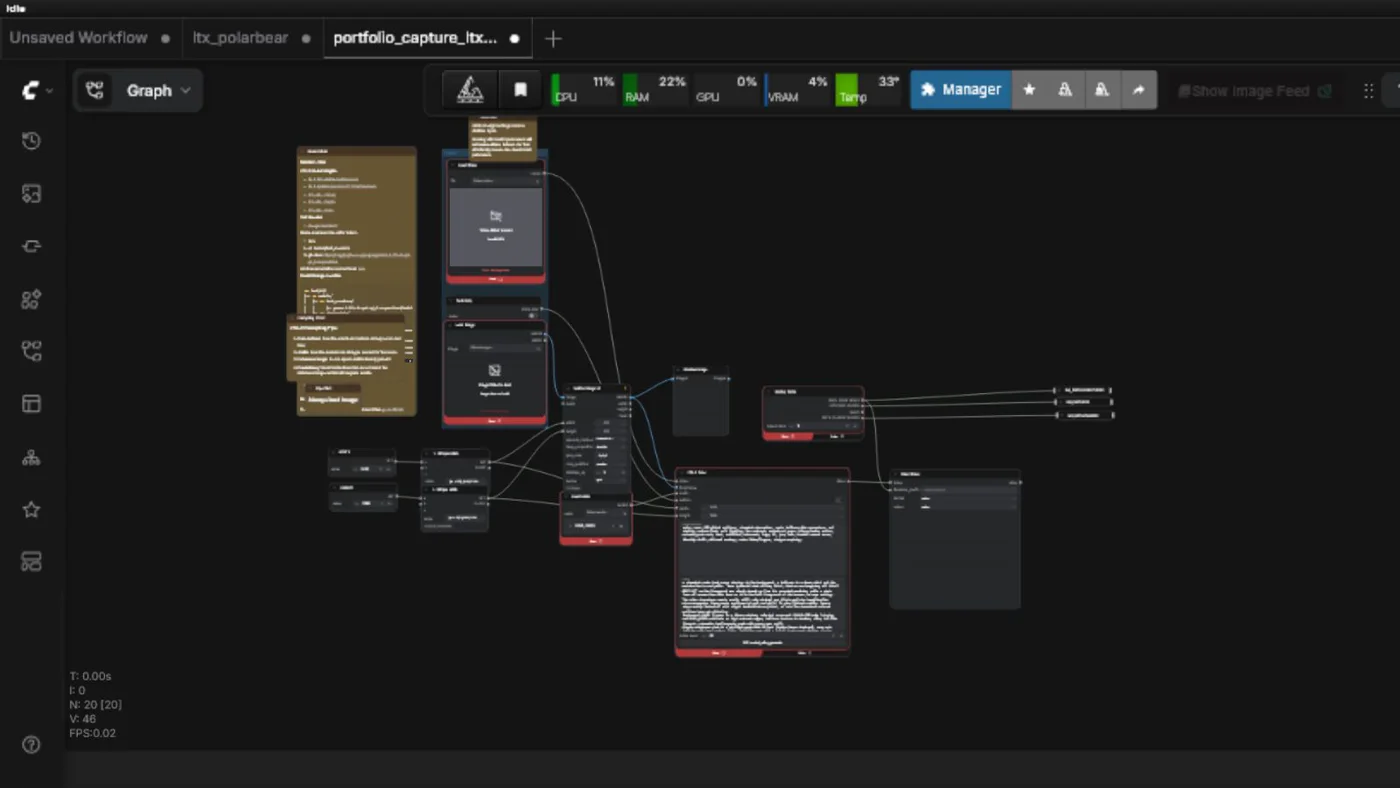
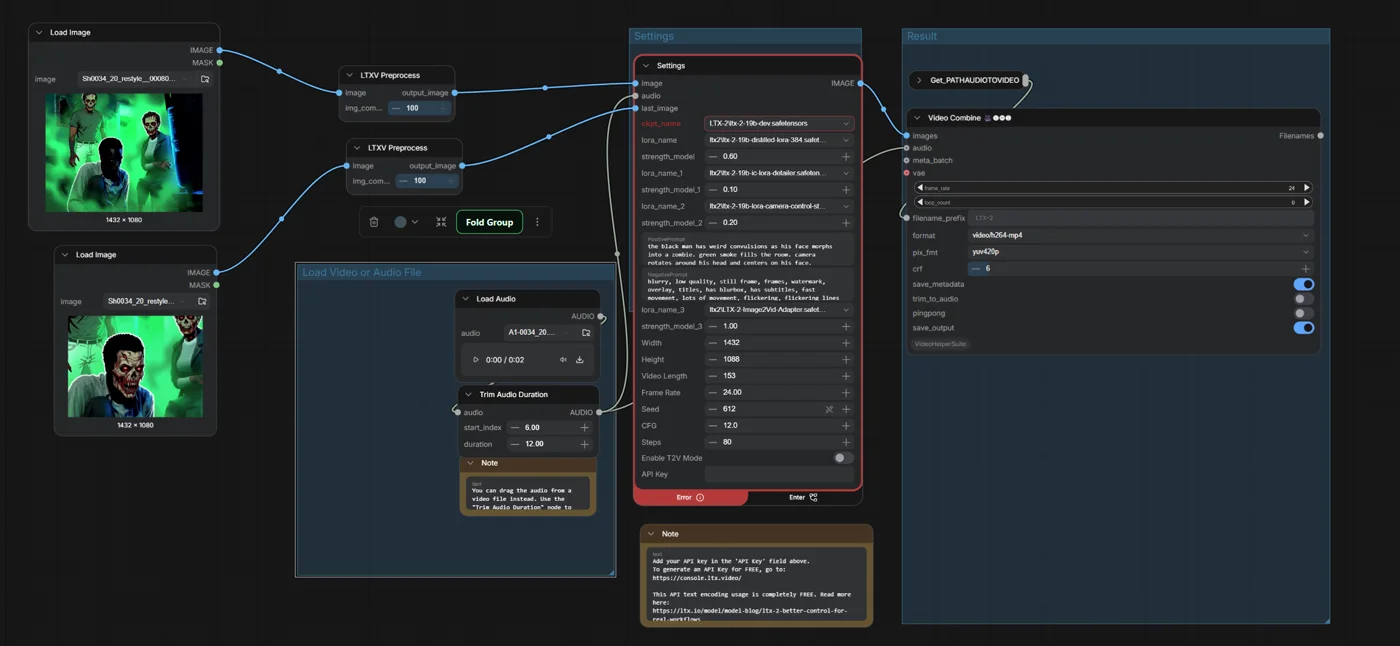
Update LTX workflow and add zombie bunny

diff --git a/src/styles/bunny.css b/src/styles/bunny.css
@@ -51,6 +51,21 @@
   opacity: 0.92;
 }
 
+.ascii-bunny--zombie {
+  left: 72%;
+  top: clamp(-2.7rem, -3vw, -1.7rem);
+  z-index: 0;
+  color: #dcffe1;
+  font-size: clamp(0.92rem, 1.35vw, 1.55rem);
+  opacity: 0.9;
+  filter: drop-shadow(0 0 11px rgba(112, 255, 150, 0.22));
+  text-shadow:
+    -1px 0 rgba(0, 188, 255, 0.28),
+    1px 0 rgba(136, 255, 113, 0.38),
+    0 0 16px rgba(220, 255, 225, 0.2);
+  transform-origin: 50% 100%;
+}
+
 .ascii-bunny--hero.ascii-bunny--entering {
   animation: bunnyEnter 4.6s cubic-bezier(0.2, 0.78, 0.24, 1) forwards;
 }
@@ -67,6 +82,10 @@
   animation: bunnyProjectPeek 4.8s ease-in-out infinite;
 }
 
+.ascii-bunny--zombie.ascii-bunny--entering {
+  animation: bunnyZombieEnter 2.5s cubic-bezier(0.2, 0.74, 0.2, 1) forwards;
+}
+
 .ascii-bunny--idle {
   animation: bunnyIdle 1.8s ease-in-out infinite;
 }
@@ -81,6 +100,10 @@
 
 .ascii-bunny--love.ascii-bunny--idle {
   animation: bunnyLoveIdle 1.7s ease-in-out infinite;
+}
+
+.ascii-bunny--zombie.ascii-bunny--idle {
+  animation: bunnyZombiePeek 7.4s ease-in-out infinite;
 }
 
 .ascii-bunny__hearts {
@@ -130,6 +153,10 @@
 
 .ascii-bunny--project.ascii-bunny--fleeing {
   animation: bunnyFleeDown 0.62s cubic-bezier(0.14, 0.86, 0.22, 1) forwards;
+}
+
+.ascii-bunny--zombie.ascii-bunny--fleeing {
+  animation: bunnyZombieFlee 0.9s steps(8, end) forwards;
 }
 
 @keyframes bunnyEnter {
@@ -345,6 +372,74 @@
   }
   64%, 100% {
     transform: translateY(4.8rem) rotate(0deg) scaleX(1) scaleY(1);
+  }
+}
+
+@keyframes bunnyZombieEnter {
+  0% {
+    opacity: 0.2;
+    transform: translateY(5.3rem) translateX(0.7rem) rotate(9deg) skewX(-4deg);
+  }
+  44% {
+    opacity: 0.9;
+    transform: translateY(2.1rem) translateX(-0.45rem) rotate(-8deg) skewX(3deg);
+  }
+  68% {
+    transform: translateY(0.55rem) translateX(0.3rem) rotate(5deg) skewX(-2deg);
+  }
+  84% {
+    transform: translateY(-0.25rem) translateX(-0.2rem) rotate(-4deg) skewX(2deg);
+  }
+  100% {
+    opacity: 0.9;
+    transform: translateY(0) translateX(0) rotate(2deg) skewX(0deg);
+  }
+}
+
+@keyframes bunnyZombiePeek {
+  0%, 20% {
+    opacity: 0.9;
+    transform: translateY(0) translateX(0) rotate(2deg) skewX(0deg);
+  }
+  8% {
+    transform: translateY(-0.25rem) translateX(-0.35rem) rotate(-5deg) skewX(3deg);
+  }
+  25%, 67% {
+    opacity: 0.82;
+    transform: translateY(5.3rem) translateX(0.6rem) rotate(9deg) skewX(-4deg);
+  }
+  76% {
+    transform: translateY(2.2rem) translateX(-0.45rem) rotate(-9deg) skewX(4deg);
+  }
+  86% {
+    transform: translateY(-0.2rem) translateX(0.25rem) rotate(6deg) skewX(-3deg);
+  }
+  100% {
+    opacity: 0.9;
+    transform: translateY(0) translateX(0) rotate(2deg) skewX(0deg);
+  }
+}
+
+@keyframes bunnyZombieFlee {
+  0% {
+    opacity: 0.9;
+    transform: translateY(0) translateX(0) rotate(2deg) scaleX(1) scaleY(1);
+  }
+  18% {
+    transform: translateY(0.3rem) translateX(-0.7rem) rotate(-10deg) scaleX(1.16) scaleY(0.84);
+  }
+  34% {
+    transform: translateY(-0.45rem) translateX(0.8rem) rotate(12deg) scaleX(0.84) scaleY(1.16);
+  }
+  52% {
+    transform: translateY(1.3rem) translateX(1.6rem) rotate(-7deg) scaleX(1.12) scaleY(0.88);
+  }
+  70% {
+    transform: translateY(3.8rem) translateX(0.4rem) rotate(15deg) scaleX(0.9) scaleY(1.1);
+  }
+  100% {
+    opacity: 0.9;
+    transform: translateY(9rem) translateX(2.8rem) rotate(24deg) skewX(-8deg) scaleX(1.08) scaleY(0.92);
   }
 }
 

diff --git a/src/components/AsciiBunny.tsx b/src/components/AsciiBunny.tsx
@@ -12,11 +12,26 @@ const bunnyFrames = [
   String.raw`  n   n
  ( o.o )
  (  -  )
+  o(")(")`
+];
+
+const zombieBunnyFrames = [
+  String.raw`  n   n
+ ( x.o )
+ (  ~  )
+ o(")(")`,
+  String.raw`  n   n
+ ( x.- )
+ (  ~  )
+  (")_(")`,
+  String.raw`  n   n
+ ( x.o )
+ (  ~  )
  o(")(")`
 ];
 
 type AsciiBunnyProps = {
-  variant?: 'hero' | 'work' | 'project' | 'love';
+  variant?: 'hero' | 'work' | 'project' | 'love' | 'zombie';
 };
 
 export function AsciiBunny({ variant = 'hero' }: AsciiBunnyProps) {
@@ -24,6 +39,7 @@ export function AsciiBunny({ variant = 'hero' }: AsciiBunnyProps) {
   const prefersReducedMotion = window.matchMedia('(prefers-reduced-motion: reduce)').matches;
   const [phase, setPhase] = useState<'entering' | 'idle' | 'fleeing'>(() => prefersReducedMotion ? 'idle' : 'entering');
   const [frameIndex, setFrameIndex] = useState(0);
+  const frames = variant === 'zombie' ? zombieBunnyFrames : bunnyFrames;
 
   useEffect(() => {
     if (variant !== 'project') return undefined;
@@ -95,16 +111,16 @@ export function AsciiBunny({ variant = 'hero' }: AsciiBunnyProps) {
     if (prefersReducedMotion) return undefined;
 
     const frameTimer = window.setInterval(() => {
-      setFrameIndex((current) => (current + 1) % bunnyFrames.length);
-    }, phase === 'fleeing' ? 105 : 230);
+      setFrameIndex((current) => (current + 1) % frames.length);
+    }, phase === 'fleeing' ? 125 : variant === 'zombie' ? 340 : 230);
 
     return () => window.clearInterval(frameTimer);
-  }, [phase, prefersReducedMotion]);
+  }, [frames.length, phase, prefersReducedMotion, variant]);
 
   useEffect(() => {
     if (phase !== 'entering') return undefined;
 
-    const enterDuration = variant === 'hero' || variant === 'love' ? 4700 : 2200;
+    const enterDuration = variant === 'hero' || variant === 'love' ? 4700 : variant === 'zombie' ? 2600 : 2200;
     const enterTimer = window.setTimeout(() => setPhase('idle'), enterDuration);
     return () => window.clearTimeout(enterTimer);
   }, [phase, variant]);
@@ -142,7 +158,7 @@ export function AsciiBunny({ variant = 'hero' }: AsciiBunnyProps) {
       className={`ascii-bunny ascii-bunny--${variant} ascii-bunny--${phase}`}
       aria-hidden="true"
     >
-      {bunnyFrames[frameIndex]}
+      {frames[frameIndex]}
       {variant === 'love' ? (
         <span className="ascii-bunny__hearts" aria-hidden="true">
           <span>&lt;3</span>

diff --git a/src/components/ProjectDetailPage.tsx b/src/components/ProjectDetailPage.tsx
@@ -97,10 +97,13 @@ export function ProjectDetailPage({ project }: { project: PortfolioProject }) {
       {videos.length > 0 ? (
         <section className="project-videos" aria-label={`${project.title} videos`}>
           <p className="eyebrow">_VIDEO SIGNALS</p>
-          <div className={`project-video-grid${videos.length === 1 ? ' project-video-grid--single' : ''}`}>
-            {videos.map((video, index) => (
-              <ProjectVideo projectTitle={project.title} video={video} index={index} key={`${video.url}-${index}`} />
-            ))}
+          <div className="project-video-stage">
+            {project.slug === 'night-of-the-living-dead-ltx-contest' ? <AsciiBunny variant="zombie" /> : null}
+            <div className={`project-video-grid${videos.length === 1 ? ' project-video-grid--single' : ''}`}>
+              {videos.map((video, index) => (
+                <ProjectVideo projectTitle={project.title} video={video} index={index} key={`${video.url}-${index}`} />
+              ))}
+            </div>
           </div>
         </section>
       ) : null}

diff --git a/src/styles/layout.css b/src/styles/layout.css
@@ -1595,6 +1595,17 @@ button,
   background: transparent;
 }
 
+.project-video-stage {
+  position: relative;
+  isolation: isolate;
+  overflow: visible;
+}
+
+.project-video-stage .project-video-grid {
+  position: relative;
+  z-index: 1;
+}
+
 .project-detail-page .project-video-grid--single {
   grid-template-columns: 1fr;
 }

diff --git a/src/utils/imagePreview.ts b/src/utils/imagePreview.ts
@@ -48,7 +48,7 @@ const previews: Record<string, ImagePresentation> = {
     src: 'assets/projects/night-of-the-living-dead-ltx-contest/camera-low-angle.preview.webp', width: 1176, height: 888
   },
   'assets/projects/night-of-the-living-dead-ltx-contest/comfyui-ltx2-pose-workflow.png': {
-    src: 'assets/projects/night-of-the-living-dead-ltx-contest/comfyui-ltx2-pose-workflow.preview.webp', width: 1400, height: 788
+    src: 'assets/projects/night-of-the-living-dead-ltx-contest/comfyui-ltx2-pose-workflow.preview.webp', width: 1400, height: 646
   },
   'assets/projects/night-of-the-living-dead-ltx-contest/original-scene-frame.jpg': {
     src: 'assets/projects/night-of-the-living-dead-ltx-contest/original-scene-frame.jpg', width: 1432, height: 1080

diff --git a/tests/portfolio.spec.ts b/tests/portfolio.spec.ts
@@ -87,6 +87,7 @@ test('LTX contest dossier leads with the final and defers inline WIP playback', 
   await expect(page).toHaveTitle('Night of the Living Dead - LTX-2 Contest — Vlad Maftei');
   await expect(page.getByRole('heading', { level: 1 })).toContainText('Night of the Living Dead');
   await expect(page.getByRole('button', { name: 'Play Final contest sequence' })).toBeVisible();
+  await expect(page.locator('.ascii-bunny--zombie')).toHaveCount(1);
   await expect(page.locator('.content-video__poster')).toHaveCount(3);
   await expect(page.locator('.content-video video')).toHaveCount(0);
   await expect(page.getByRole('heading', { name: 'The Constraint' })).toBeVisible();